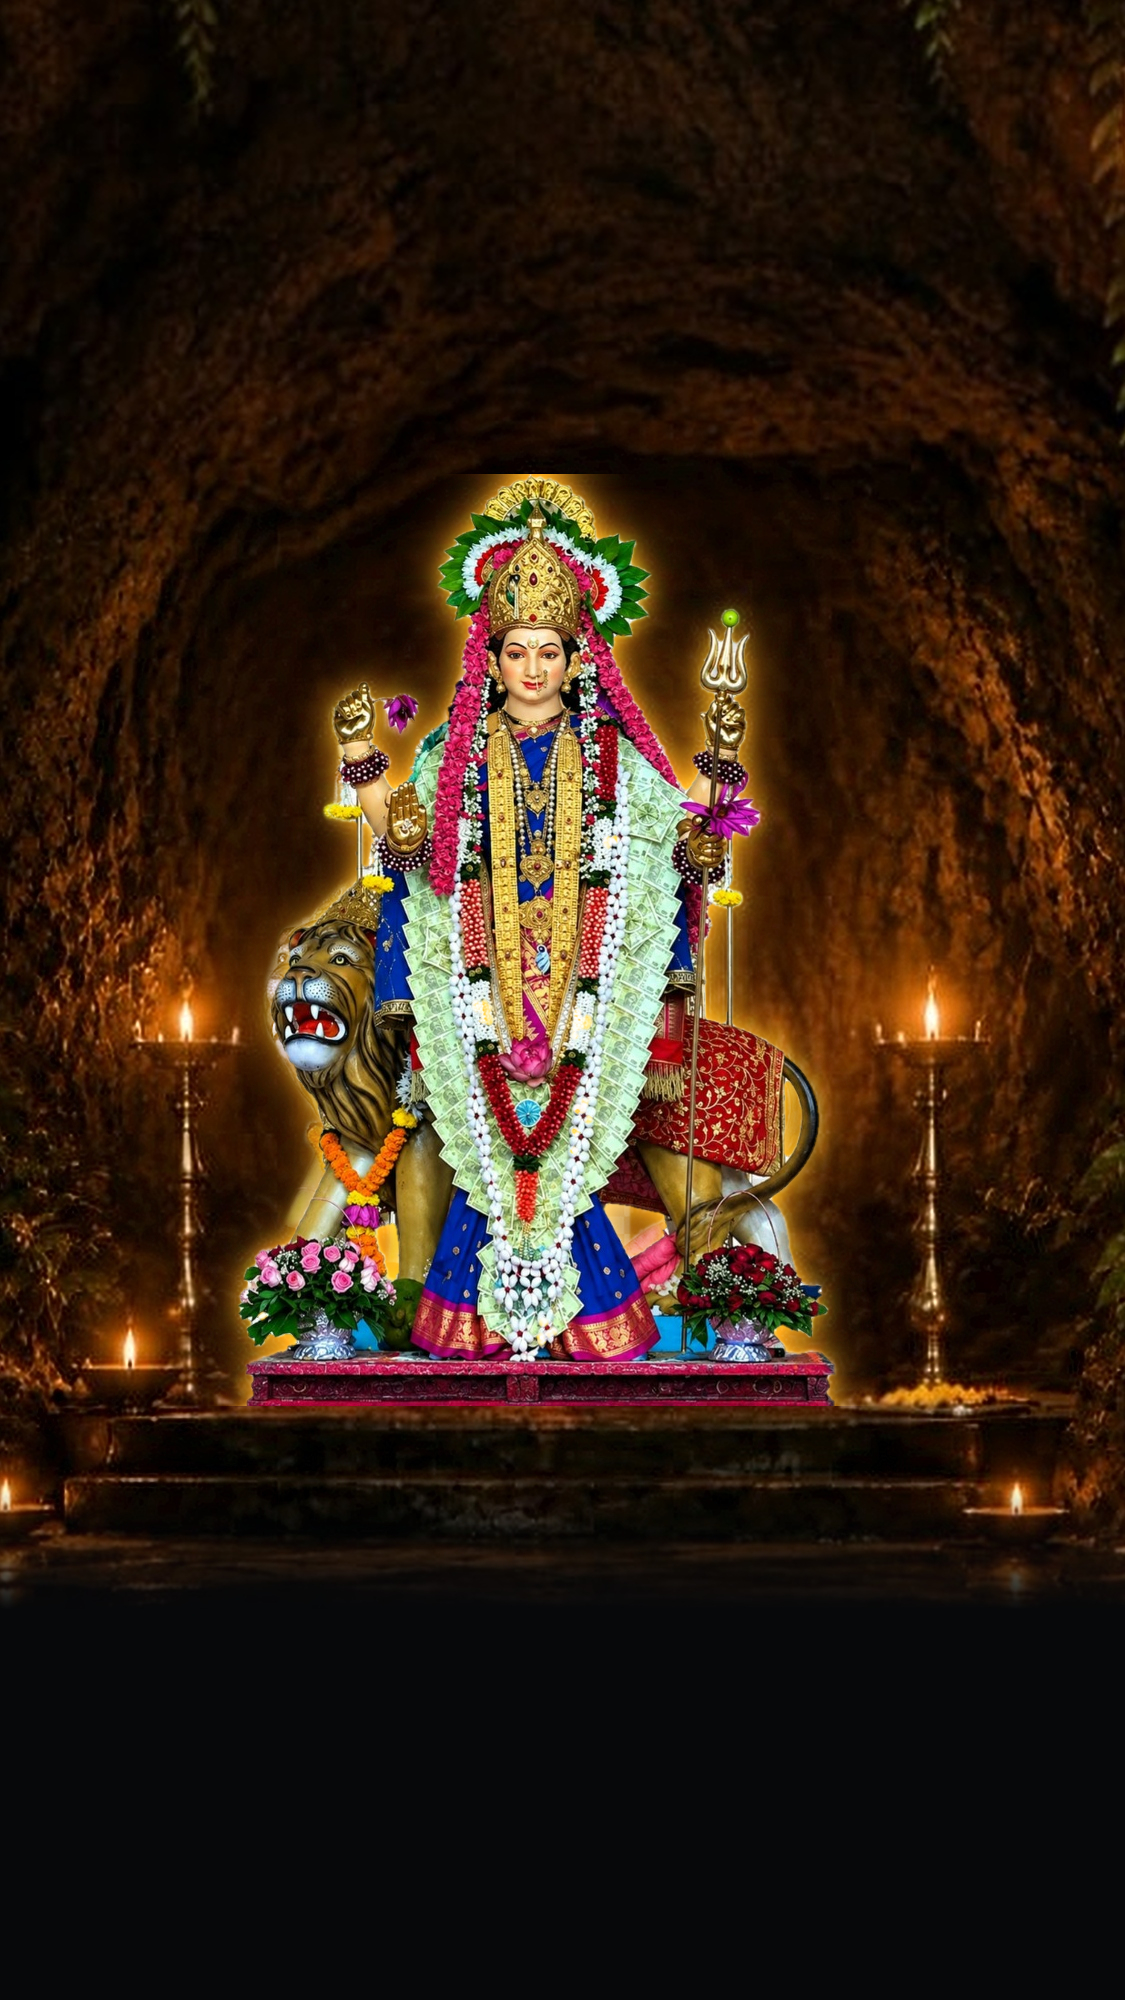
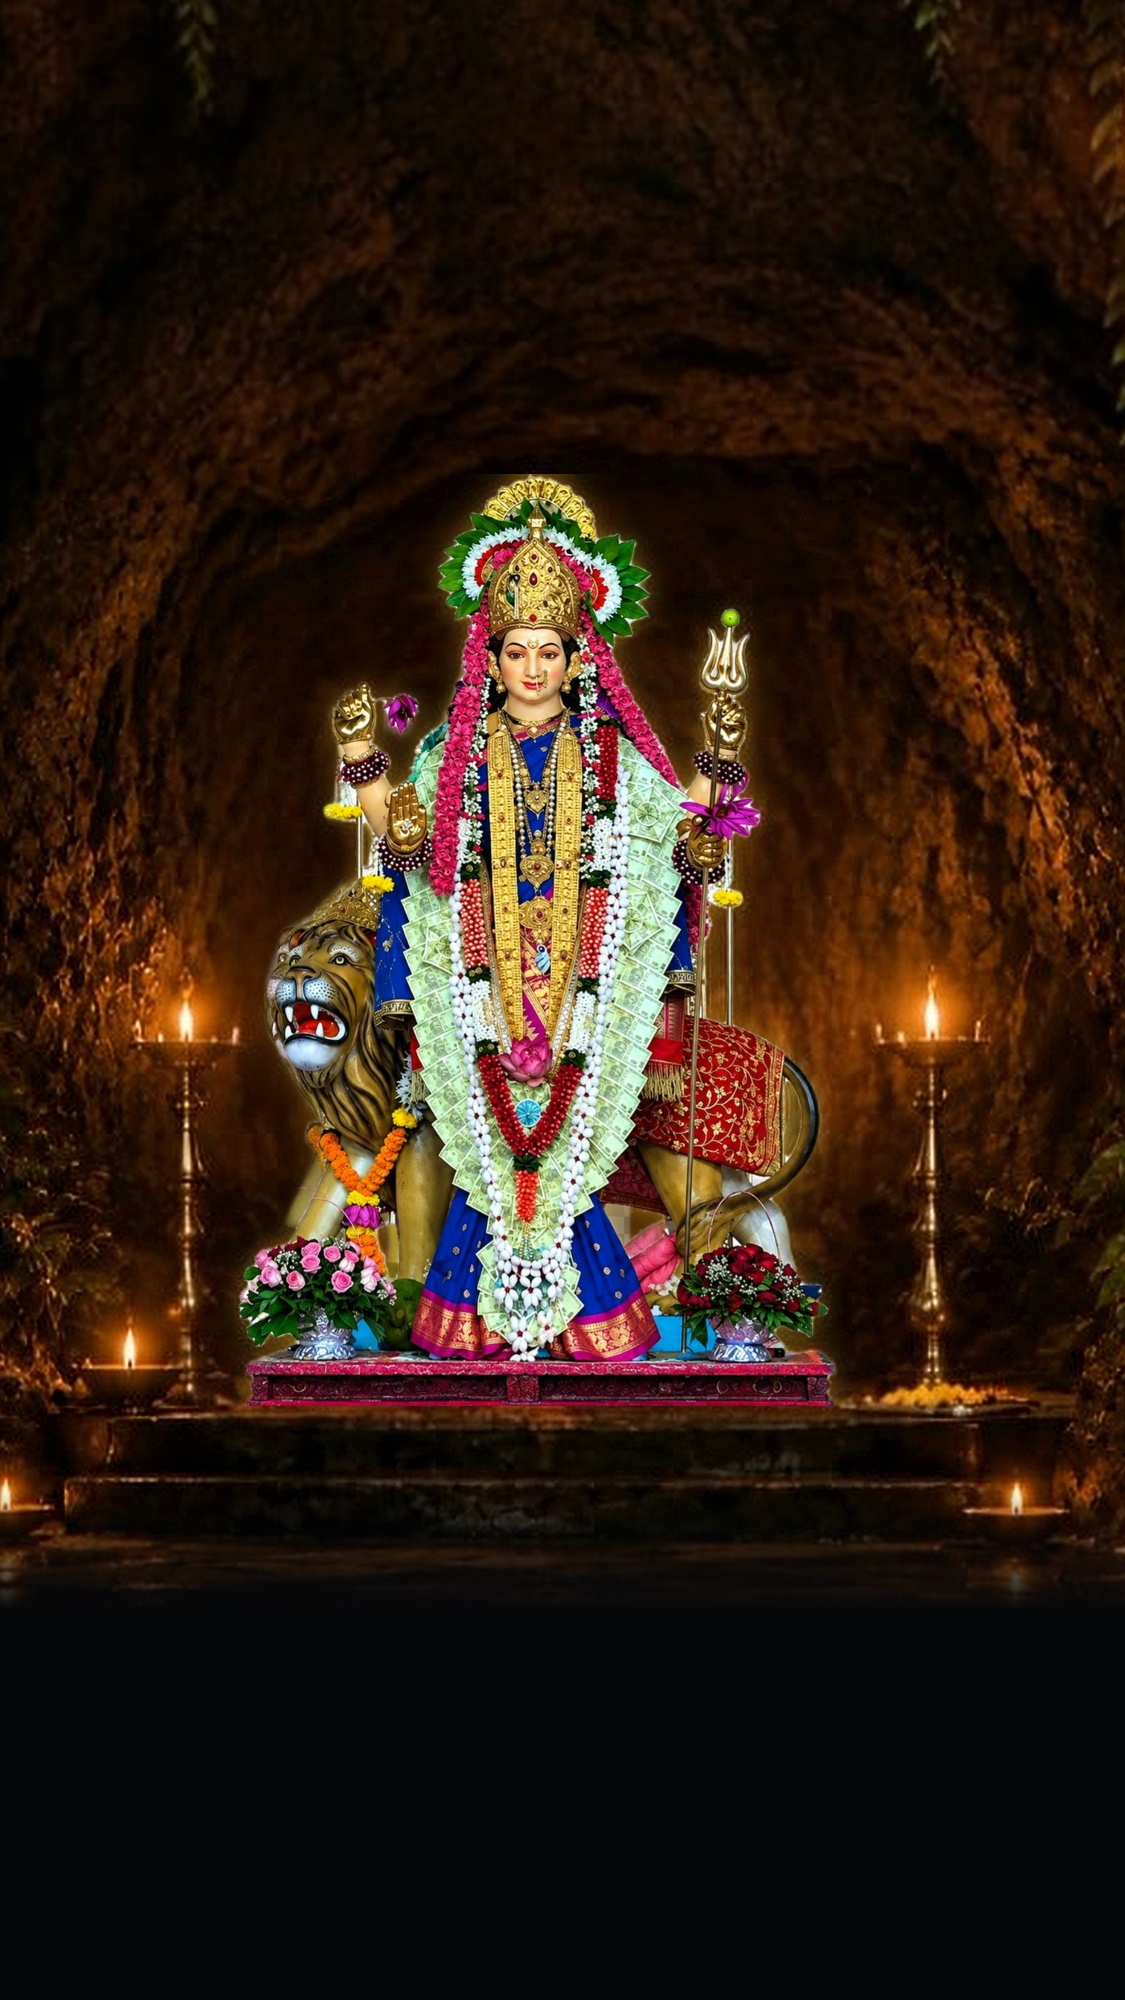
yooooooooo

diff --git a/scratch/perfect_golden_glow.py b/scratch/perfect_golden_glow.py
@@ -1,0 +1,52 @@
+import cv2
+import numpy as np
+
+# 1. Load clean cave background
+cave = cv2.imread('scratch/clean_hero_mobile.jpg')
+idol = cv2.imread('public/images/devi_hd_clean.png', cv2.IMREAD_UNCHANGED)
+
+idol_w = 750
+idol_h = 932
+idol_x = 146
+idol_y = 474
+
+resized_idol = cv2.resize(idol, (idol_w, idol_h), interpolation=cv2.INTER_LANCZOS4)
+alpha_idol = (resized_idol[:, :, 3].astype(np.float32) / 255.0)[:, :, np.newaxis]
+rgb_idol = resized_idol[:, :, :3].astype(np.float32)
+
+# Extract ROI from cave
+roi = cave[idol_y:idol_y+idol_h, idol_x:idol_x+idol_w].astype(np.float32)
+
+# Subtle, pure warm ROYAL GOLD aura (STRICTLY NO YELLOW):
+# Royal Gold in BGR: [B=45, G=165, R=210] (#D2A52D)
+# Warm Amber Gold in BGR: [B=20, G=130, R=180] (#B48214)
+glow_mask_broad = cv2.GaussianBlur(resized_idol[:, :, 3].astype(np.float32), (81, 81), 25.0) / 255.0
+glow_mask_rim = cv2.GaussianBlur(resized_idol[:, :, 3].astype(np.float32), (41, 41), 10.0) / 255.0
+
+gold_broad = np.zeros_like(roi)
+gold_broad[:, :] = [20, 130, 180]  # BGR
+
+gold_rim = np.zeros_like(roi)
+gold_rim[:, :] = [45, 165, 210]  # BGR
+
+# Subtle aura intensity: 0.35 broad, 0.30 rim
+aura_layer = gold_broad * glow_mask_broad[:, :, np.newaxis] * 0.35 + gold_rim * glow_mask_rim[:, :, np.newaxis] * 0.30
+
+# Blend aura strictly onto cave background
+roi_with_glow = roi + aura_layer * (1.0 - roi / 255.0)
+roi_with_glow = np.clip(roi_with_glow, 0, 255)
+
+# Composite Devi Maa ON TOP of the glow:
+# Where alpha_idol == 1 (inside Devi), it is 100% rgb_idol (Devi herself, zero glow on her)
+final_roi = rgb_idol * alpha_idol + roi_with_glow * (1.0 - alpha_idol)
+final_roi = np.clip(final_roi, 0, 255)
+
+final_hero = cave.copy()
+final_hero[idol_y:idol_y+idol_h, idol_x:idol_x+idol_w] = final_roi.astype(np.uint8)
+
+# Save hero_mobile.jpg at max quality 100%
+cv2.imwrite('public/images/hero_mobile.jpg', final_hero, [
+    cv2.IMWRITE_JPEG_QUALITY, 100,
+    cv2.IMWRITE_JPEG_SAMPLING_FACTOR, cv2.IMWRITE_JPEG_SAMPLING_FACTOR_444
+])
+print("Successfully generated public/images/hero_mobile.jpg with subtle royal gold aura strictly behind Devi!")
